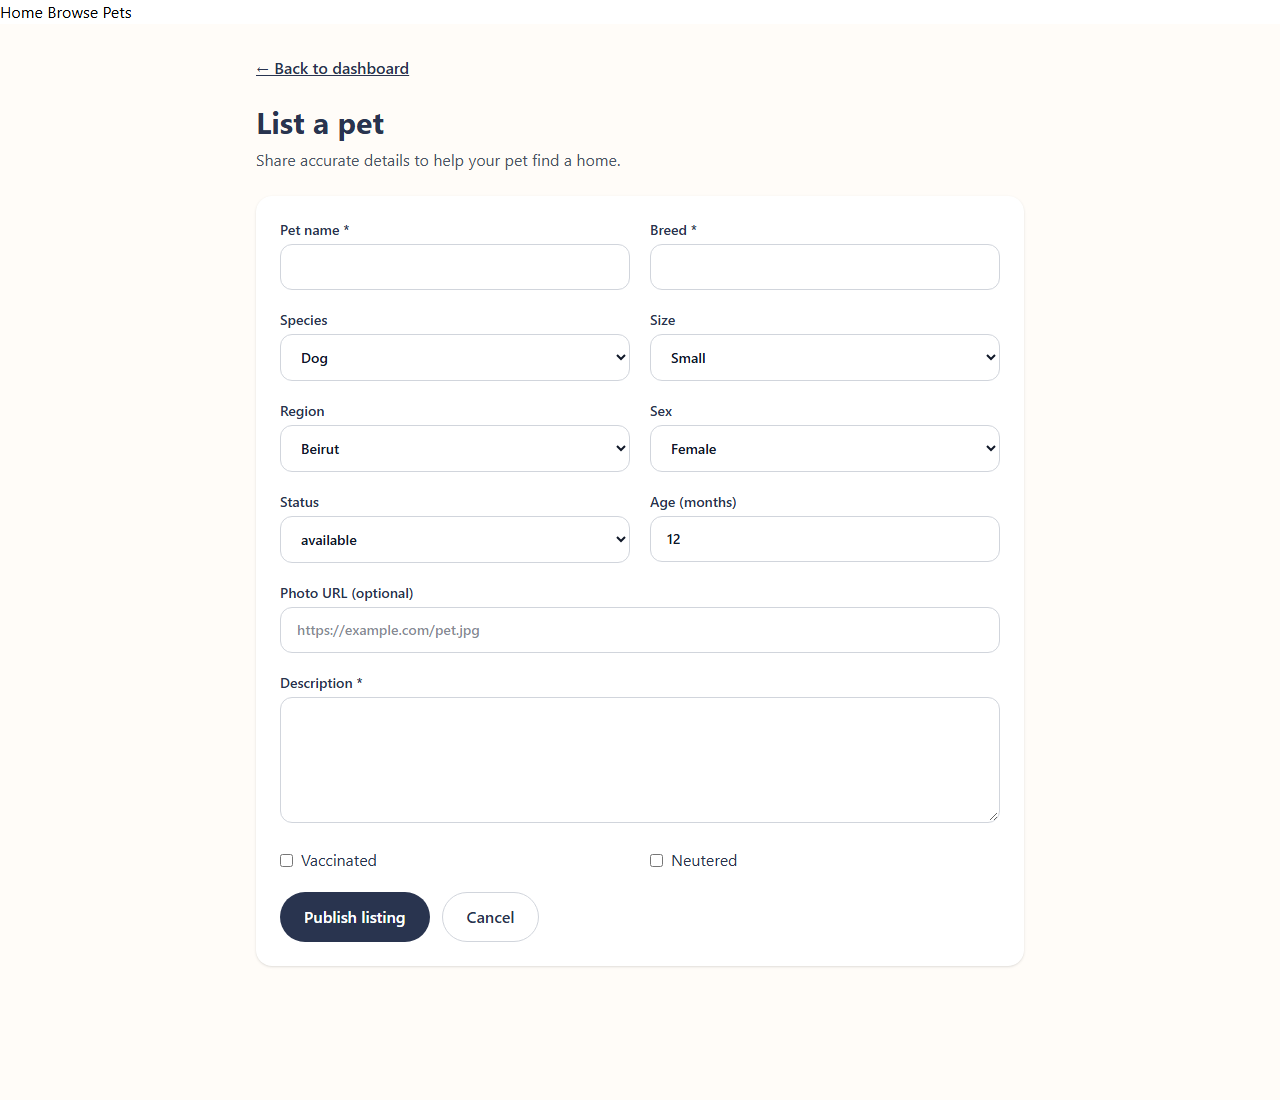
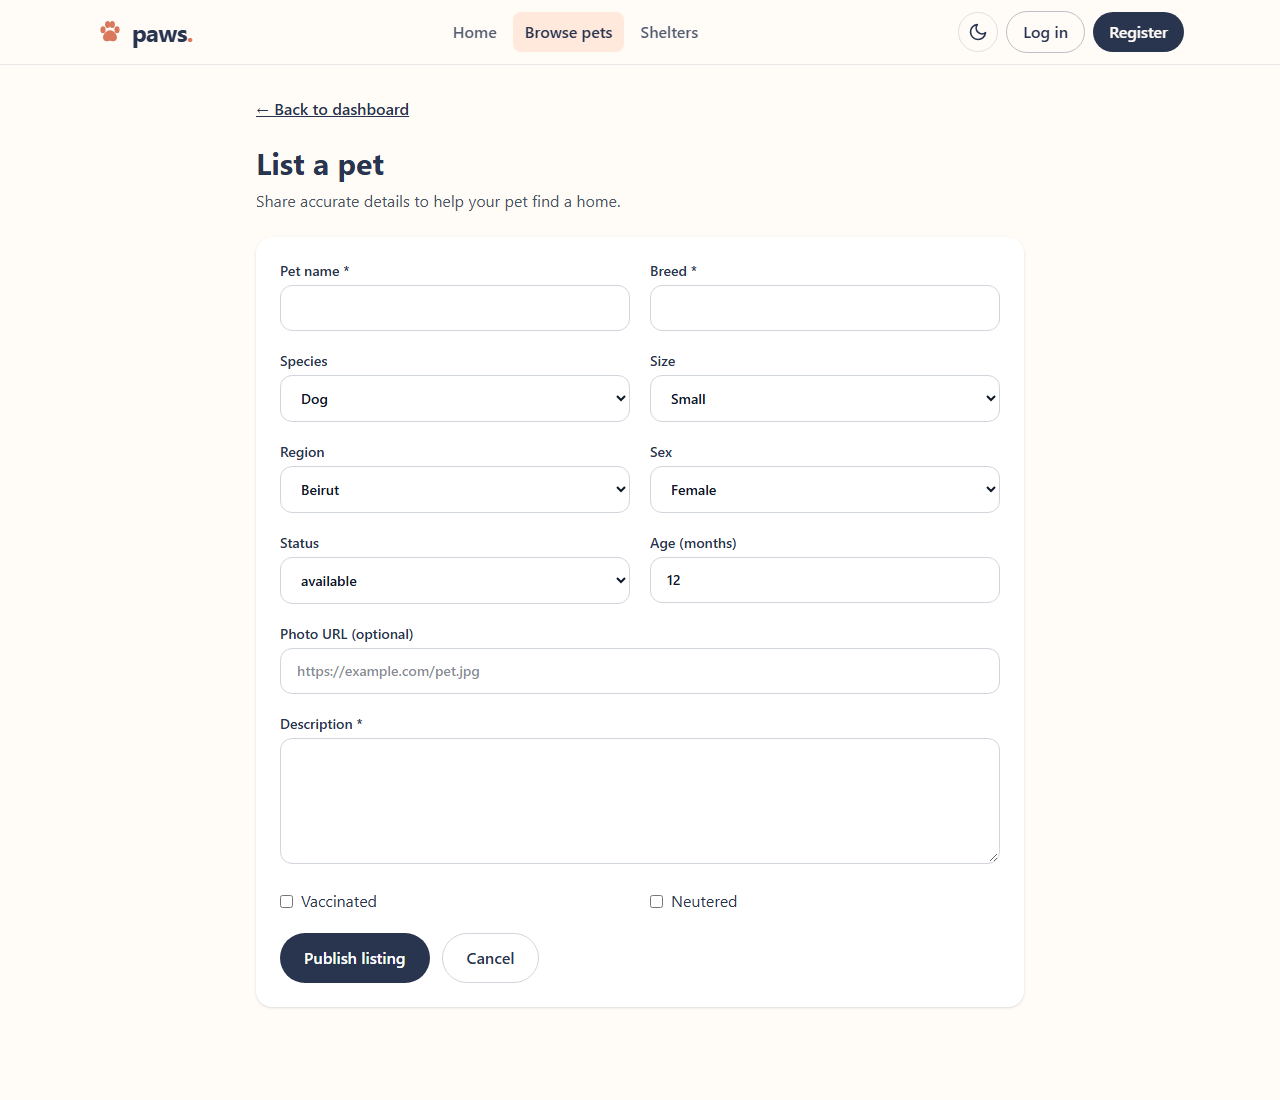
Update README for navbar, dark mode, footer and demo logins

diff --git a/README.md b/README.md
@@ -1,6 +1,6 @@
 # Paws: Pet Adoption Network
 
-Paws is a website that helps people in Lebanon find a pet to adopt. You can browse pets, filter them, read about each pet and its shelter, and create an account as an adopter or as a shelter.
+Paws is a website that helps people in Lebanon find a pet to adopt. You can browse pets, filter them, read about each pet and its shelter, and create an account as an adopter or as a shelter. It works on phones and computers, and has a light and a dark mode.
 
 This is **Phase 1** of a university group project. Phase 1 is the front end only (what you see in the browser). There is no server or database yet, so the app uses pretend data that lives in the browser (see [How the mock data works](#how-the-mock-data-works)). The back end will be built with Node.js in Phase 2.
 
@@ -67,7 +67,9 @@ Regions are Lebanon's 8 governorates: Beirut, Mount Lebanon, North, Akkar, Beqaa
 | `npm run lint` | Checks the code for common mistakes. |
 
 ### Demo accounts
-All demo accounts use the password **`PawsDemo123!`**
+The quickest way in: on the Login page, click **Log in as Adopter** or **Log in as Shelter**. No typing needed.
+
+To log in by hand, use one of these. All demo accounts use the password **`PawsDemo123!`**
 
 | Email | Role |
 |---|---|
@@ -79,8 +81,14 @@ All demo accounts use the password **`PawsDemo123!`**
 **Home page**
 ![Home page](docs/screenshots/home.png)
 
+**Home page in dark mode** (switch with the moon button in the top bar)
+![Home page in dark mode](docs/screenshots/home-dark.png)
+
 **Pet List with filters** (here: dogs, large size)
 ![Pet list filtered to large dogs](docs/screenshots/pet-list-filtered.png)
+
+**Pet List in dark mode**
+![Pet list in dark mode](docs/screenshots/pet-list-dark.png)
 
 **Pet Details**
 ![Pet details page for Bruno](docs/screenshots/pet-details.png)
@@ -100,10 +108,13 @@ All demo accounts use the password **`PawsDemo123!`**
 **Register**
 ![Register form](docs/screenshots/register.png)
 
-**Login**
-![Login form](docs/screenshots/login.png)
+**Login** (with the one-click demo buttons)
+![Login form with demo account buttons](docs/screenshots/login.png)
 
-**Pet List on a phone**
+**Page not found**
+![Page not found](docs/screenshots/not-found.png)
+
+**Pet List on a phone** (the top bar turns into a menu button)
 
 <img src="docs/screenshots/pet-list-mobile.png" alt="Pet list on a phone screen" width="300">
 
@@ -112,7 +123,9 @@ All demo accounts use the password **`PawsDemo123!`**
 ### Eyad Oumar: Pet List and Register
 - **Pet List** (`/pets`): shows every pet as a card with a status badge. You can search by name or breed and filter by species, age, size, region and status. The filters are saved in the web address, so a filtered list can be shared, and the species links on the Home page open the list already filtered. It shows how many pets match, has a "Clear filters" button and a message when nothing matches. On phones, the filters hide behind a "Show filters" button.
 - **Register** (`/register`): a sign-up form for adopters and shelters. Every field is checked (for example, a valid email, a password with at least 8 characters including a letter and a number, matching passwords). Each error appears under its field. Choosing "I'm a shelter" shows extra shelter fields. There is a show/hide password button.
-- Also: the shared lists of allowed values (`constants.js`), the mock data and helper functions, and the paw favicon.
+- **Top bar and footer** (on every page): the top bar has the logo and links to Home, Browse pets and Shelters, and highlights the page you are on. It shows Log in and Register, or Dashboard and Log out once you are logged in. On phones, the links fold into a menu button. The footer has quick links, the team names and the copyright line.
+- **Dark mode**: a moon/sun button in the top bar switches the whole site between light and dark. It remembers your choice, and the first time it follows your device's setting.
+- Also: the one-click demo login buttons, the "Page not found" page, the shared lists of allowed values (`constants.js`), the mock data and helper functions, and the paw favicon.
 
 ### Omar Bacha: Home and Login
 - **Home** (`/`): the landing page with featured pets and quick links to browse pets by species.
@@ -156,7 +169,7 @@ In Phase 2, the starting data will come from a Node.js server instead. The pages
 
 ```
 public/images/      pet and shelter photos
-src/components/     reusable pieces (Navbar, PetCard, FilterBar, ...)
+src/components/     reusable pieces (Navbar, Footer, ThemeToggle, PetCard, FilterBar, ...)
 src/context/        the shared data provider
 src/data/           mock data, allowed values and helper functions
 src/pages/          one file per page
